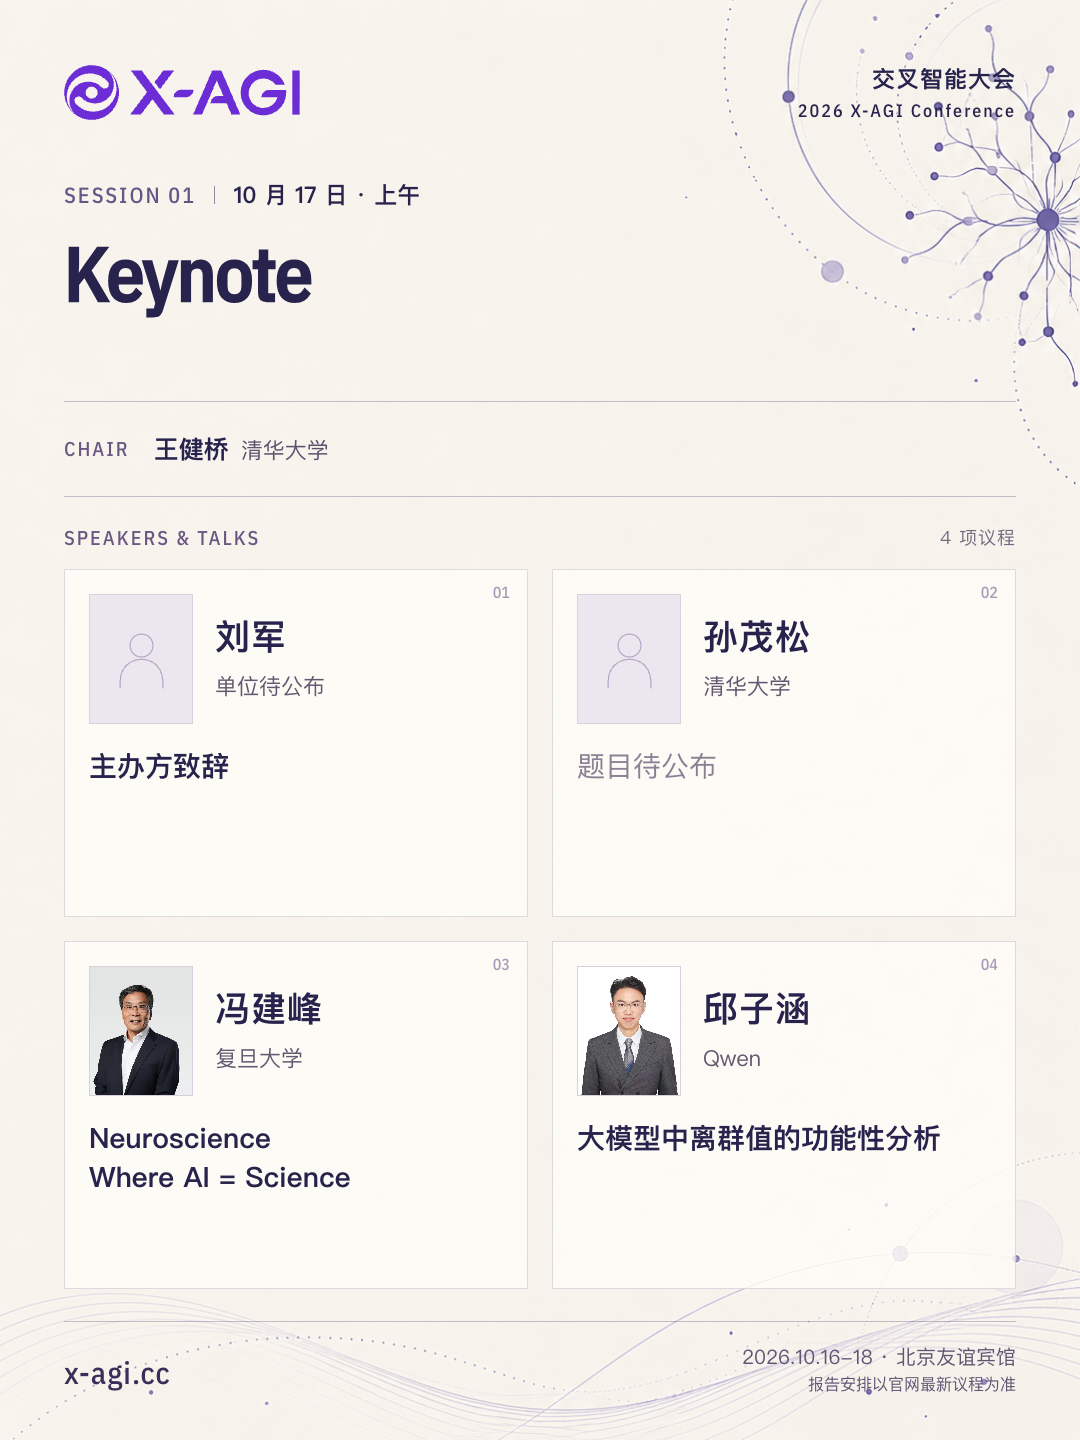
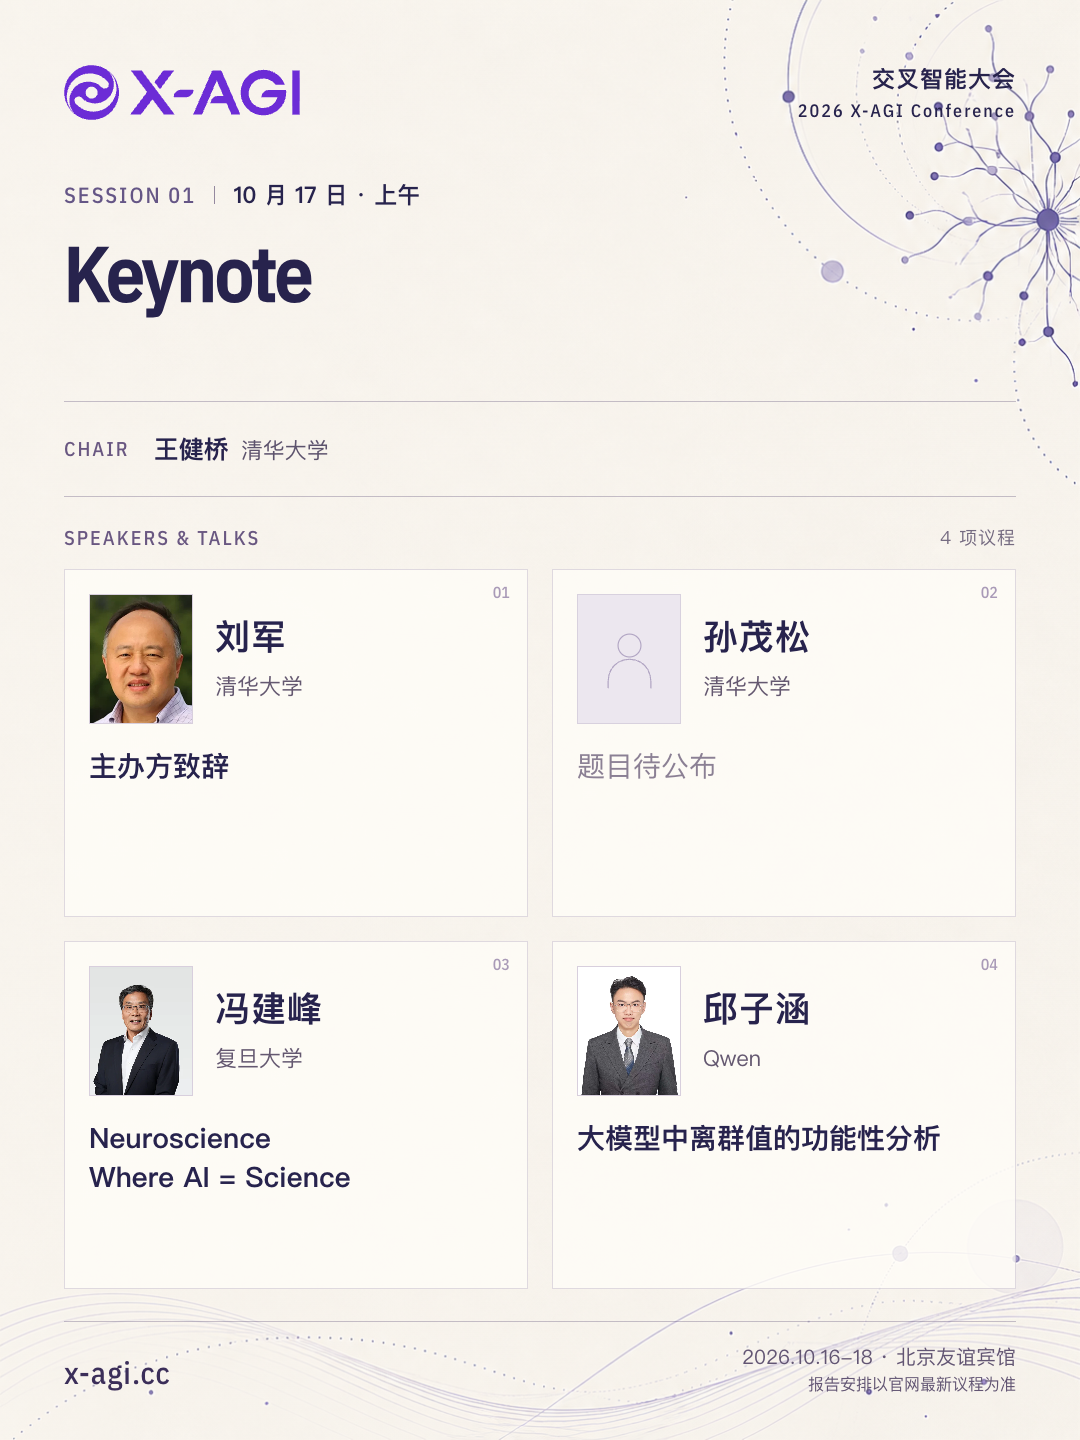
Add Liu Jun biography and reuse his 2025 portrait

Changed region(s): [[0.0611, 0.4062, 0.3056, 0.5]]

diff --git a/src/data/conference2026-people.ts b/src/data/conference2026-people.ts
@@ -4,10 +4,14 @@ import {
   type Conference2026PersonSourceRecord,
 } from './conference2026-people.generated.ts';
 import { conference2026ProgramSessions } from './conference2026-program.ts';
+import {
+  conference2026ArchivedPortraits,
+  conference2026ConfirmedPeople,
+} from './conference2026-people.confirmed.ts';
 
 export type { Conference2026PersonRole } from './conference2026-people.generated.ts';
 
-export type Conference2026PortraitStatus = 'submitted' | 'missing';
+export type Conference2026PortraitStatus = 'submitted' | 'archived' | 'missing';
 
 export type Conference2026PersonScheduleItem = {
   readonly sessionNumber: number;
@@ -26,8 +30,15 @@ export type Conference2026Person = Omit<Conference2026PersonSourceRecord, 'talkT
   readonly schedule: readonly Conference2026PersonScheduleItem[];
 };
 
+const publicPeopleRecords = [
+  ...conference2026PeopleRecords.filter((person) => !conference2026ConfirmedPeople.some(
+    (confirmed) => confirmed.id === person.id || confirmed.name === person.name,
+  )),
+  ...conference2026ConfirmedPeople,
+];
+
 const personByPublicName = new Map<string, Conference2026PersonSourceRecord>();
-for (const person of conference2026PeopleRecords) {
+for (const person of publicPeopleRecords) {
   personByPublicName.set(person.name, person);
   for (const alias of person.aliases) personByPublicName.set(alias, person);
 }
@@ -61,6 +72,7 @@ for (const [sessionIndex, session] of conference2026ProgramSessions.entries()) {
 }
 
 function portraitStatus(person: Conference2026PersonSourceRecord): Conference2026PortraitStatus {
+  if (conference2026ArchivedPortraits.has(person.id)) return 'archived';
   return person.hasSubmittedPortrait ? 'submitted' : 'missing';
 }
 
@@ -90,7 +102,7 @@ function authoritativeTalkTitle(
   return scheduleTitles[0] ?? person.talkTitle;
 }
 
-export const conference2026People: readonly Conference2026Person[] = conference2026PeopleRecords
+export const conference2026People: readonly Conference2026Person[] = publicPeopleRecords
   .map((person) => {
     const schedule = scheduleByPersonId.get(person.id) ?? [];
     const status = portraitStatus(person);
@@ -98,7 +110,9 @@ export const conference2026People: readonly Conference2026Person[] = conference2
       ...person,
       roles: combinedRoles(person, schedule),
       talkTitle: authoritativeTalkTitle(person, schedule),
-      ...(status === 'missing' ? {} : { portraitSrc: `/2026/people/${person.id}-portrait.webp` }),
+      ...(status === 'missing' ? {} : {
+        portraitSrc: conference2026ArchivedPortraits.get(person.id) ?? `/2026/people/${person.id}-portrait.webp`,
+      }),
       portraitStatus: status,
       schedule,
     };

diff --git a/src/data/conference2026-people.confirmed.ts b/src/data/conference2026-people.confirmed.ts
@@ -1,0 +1,22 @@
+import type { Conference2026PersonSourceRecord } from './conference2026-people.generated.ts';
+
+// Organizer-confirmed profile, 2026-09-17.
+// Keep this supplied copy separate from the attendee workbook snapshot.
+export const conference2026ConfirmedPeople: readonly Conference2026PersonSourceRecord[] = [
+  {
+    id: 'liu-jun',
+    name: '刘军',
+    aliases: [],
+    roles: ['speaker'],
+    affiliation: '清华大学',
+    department: '统计与数据科学系',
+    bio: '刘军，美国科学院院士、清华大学兴华卓越讲席教授、清华统计与数据科学系主任。于1991-2025年间，他曾任哈佛大学和斯坦福大学统计系助理教授、副教授、终身教授；还曾任美国统计协会会刊(JASA)联席主编及多个国际一流统计杂志副主编等职。曾获统计领域最高荣誉考普斯会长奖（2002）、华人数学家大会晨兴应用数学金奖（2010）、泛华统计协会许宝騄奖（2016）。于2004、2005和2022年分别成为数理统计学会（IMS）、美国统计学会（ASA）和国际计算生物学会（ISCB）选举会士。于2025年当选美国国家科学院院士。他指导了40多位博士生、30多位博士后；在国际权威期刊发表300余学术论文篇和一本专著，被引用10万余次 (GoogleScholar)。',
+    hasSubmittedPortrait: false,
+    sourceOrder: -1,
+  },
+];
+
+// Reused at the organizer's request from the named 2025 schedule portrait.
+export const conference2026ArchivedPortraits = new Map([
+  ['liu-jun', '/2026/people/liu-jun-portrait.webp'],
+]);

diff --git a/src/data/conference2026-program.ts b/src/data/conference2026-program.ts
@@ -5,7 +5,7 @@ import {
 
 // Organizer-confirmed addition, 2026-09-17: Liu Jun gives the opening address.
 // Keep the Tencent snapshot intact; retire this supplement when the source owns it.
-const organizerRemarks = { name: '刘军', talkTitle: '主办方致辞' } as const;
+const organizerRemarks = { name: '刘军', affiliation: '清华大学', talkTitle: '主办方致辞' } as const;
 
 export function withOrganizerRemarks(
   sessions: readonly Conference2026ProgramSourceSession[],
@@ -19,7 +19,7 @@ export function withOrganizerRemarks(
     return {
       ...session,
       speakers: [
-        { ...existing, ...organizerRemarks },
+        { ...organizerRemarks, ...existing, talkTitle: organizerRemarks.talkTitle },
         ...session.speakers.filter((speaker) => speaker.name !== organizerRemarks.name),
       ],
     };

diff --git a/src/data/conference2026.test.ts b/src/data/conference2026.test.ts
@@ -105,7 +105,7 @@ describe('conference schedule contracts', () => {
 
   it('keeps the organizer address first without duplicating later source updates', () => {
     const keynote = conference2026ProgramSessions.find((session) => session.title === 'Keynote')!;
-    assert.deepEqual(keynote.speakers[0], { name: '刘军', talkTitle: '主办方致辞' });
+    assert.deepEqual(keynote.speakers[0], { name: '刘军', affiliation: '清华大学', talkTitle: '主办方致辞' });
     assert.deepEqual(keynote.speakers.slice(1).map((speaker) => speaker.name), ['孙茂松', '冯建峰', '邱子涵']);
     assert.deepEqual(conference2026ProgramSessions.slice(1), conference2026ProgramSource.sessions.slice(1));
 

diff --git a/docs/attendee-reconciliation-20260917.md b/docs/attendee-reconciliation-20260917.md
@@ -34,3 +34,12 @@
 1440、390、320 像素宽度下的 18 项本地浏览器检查覆盖全部专题顺序、两位新增嘉宾的原生详情展开与头像，以及专题 07、11 的海报入口。
 全部 46 位嘉宾在页面中的公开资料字段与导入结果一致。
 本地与生产检查分别记录，发布状态以合并提交、CI 和公网文件哈希校验为准。
+
+## 2026 年 9 月 17 日刘军资料补充
+
+按会务提供的原文补充刘军老师的简介，并确认其单位为清华大学。
+简介保存在 `src/data/conference2026-people.confirmed.ts`，与报名表自动生成快照分开维护，后续同步报名表不会删除或重复这条资料。
+头像复用 2025 年日程页明确标注为刘军教授的 `JunLiu.webp`。
+2025 年原文件保持不变；今年的 source archive 去除嵌入元数据并保留原图像素，网页使用单独生成的 640×640 WebP。
+资料卡使用新简介，Keynote 海报同步头像和单位，刘军的“主办方致辞”仍位于最前。
+报名快照仍有 46 位嘉宾；加上会务确认资料后公开资料共 47 位，包含 40 张报名头像、1 张往届头像及 6 个占位。
